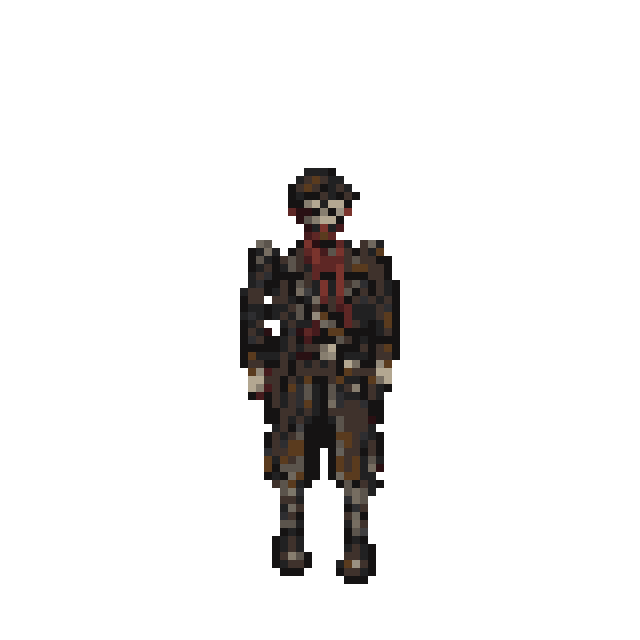
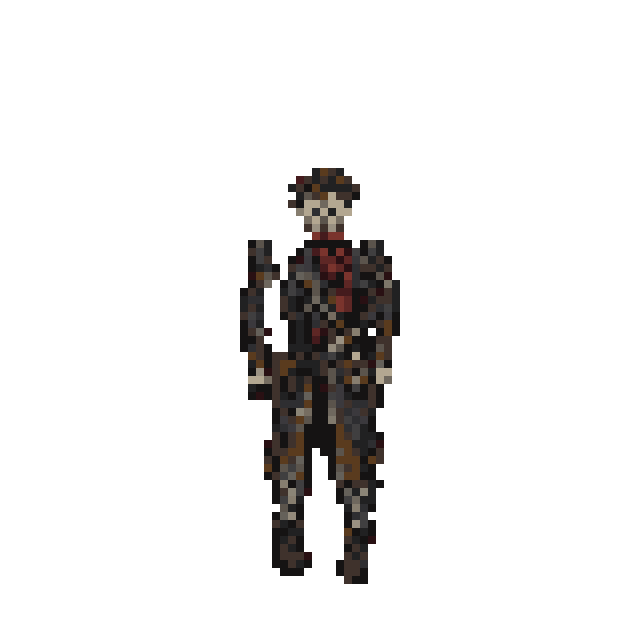
art: improve Thomas south rig readability

Changed region(s): [[0.375, 0.25, 0.625, 0.9062]]

diff --git a/assets/characters/thomas/rig/production/export_parts.py b/assets/characters/thomas/rig/production/export_parts.py
@@ -4,6 +4,8 @@ from PIL import Image
 from collections import deque
 import json,math
 P=Path(__file__).resolve().parent;R=P.parent;ROOT=P.parents[4]
+MASTER=P/'polish-v2/south-parts-master-v2.png'
+NORMAL_MASTER=P/'polish-v2/south-parts-normal-master-v2.png'
 N=Image.Resampling.NEAREST
 NAMES=['head','torso','skirt','upper_arm_l','forearm_l','upper_arm_r','forearm_r','thigh_l','shin_l','thigh_r','shin_r']
 SIZES=[(9,9),(13,18),(15,17),(4,12),(4,12),(4,12),(4,12),(5,14),(5,14),(5,14),(5,14)]
@@ -43,10 +45,15 @@ def extract(im,i,trim_skirt=True):
     return f,box
 
 def export():
-    source=Image.open(P/'south-parts-master.png').convert('RGBA')
+    source=Image.open(MASTER).convert('RGBA')
     sheet=Image.new('RGBA',(264,24));packed=Image.new('RGBA',(96,72));records=[]
     for i,name in enumerate(NAMES):
-        f,box=extract(source,i);f=f.resize(SIZES[i],N)
+        head_path=P/'polish-v2/head-master-v2.png'
+        if i==0 and head_path.exists():
+            head=Image.open(head_path).convert('RGBA');head_pack=Image.new('RGBA',(head.width*4,head.height*3));head_pack.paste(head,(0,0))
+            f,box=extract(head_pack,0,False)
+        else:f,box=extract(source,i,False)
+        f=f.resize(SIZES[i],N)
         pixels=[]
         for r,g,b,a in f.get_flattened_data():
             if not a:pixels.append((0,0,0,0));continue
@@ -55,6 +62,9 @@ def export():
             pixels.append((*c,255))
         f.putdata(pixels)
         x=12-f.width//2;y=23-f.height if i<2 else 0
+        if i<2 and not f.getpixel((12-x,22-y))[3]:
+            occupied=[xx for xx in range(f.width) if f.getpixel((xx,22-y))[3]]
+            x=12-min(occupied,key=lambda xx:abs((x+xx)-12))
         if i>=3:
             # Centre actual material at the joint, not the asymmetric cuff's bounds.
             row=min(range(min(5,f.height)),key=lambda yy:abs(yy-2) if any(f.getpixel((xx,yy))[3] for xx in range(f.width)) else 100)
@@ -67,9 +77,9 @@ def export():
                 yy=y+f.height-1;c=cell.getpixel((xx,yy))
                 if c[3]:cell.putpixel((xx,yy),(*min(PALETTE,key=lambda d:sum((d[k]-max(20,c[k]-10))**2 for k in range(3))),255))
         sheet.paste(cell,(24*i,0));packed.paste(cell,(i%4*24,i//4*24))
-        records.append({'cell':i,'part':name,'pivot':PIVOTS[i],'source_box':box,'painted_size':SIZES[i],'paste':[x,y],'alpha_bounds':cell.getbbox()})
+        records.append({'cell':i,'part':name,'pivot':PIVOTS[i],'source':str(head_path.relative_to(P)) if i==0 else str(MASTER.relative_to(P)),'source_box':box,'painted_size':SIZES[i],'paste':[x,y],'alpha_bounds':cell.getbbox()})
     sheet.save(R/'s.png');packed.resize((1152,864),N).save(P/'south-parts-registered-packed.png')
-    normal_path=P/'south-parts-normal-master.png'
+    normal_path=NORMAL_MASTER
     if normal_path.exists():
         normal_source=Image.open(normal_path).convert('RGBA');normals=Image.new('RGBA',sheet.size)
         for i in range(11):
@@ -87,7 +97,7 @@ def export():
                     pixels.append(tuple(round(127.5*(z/length+1)) for z in v)+(255,))
             cell.putdata(pixels);normals.paste(cell,(i*24,0))
         normals.save(R/'s_n.png')
-    (P/'registration.json').write_text(json.dumps({'source':'south-parts-master.png','sheet_size':[264,24],'cell_size':[24,24],'parts':records},indent=2)+'\n')
+    (P/'registration.json').write_text(json.dumps({'source':str(MASTER.relative_to(P)),'sheet_size':[264,24],'cell_size':[24,24],'parts':records},indent=2)+'\n')
     preview=R/'previews';preview.mkdir(exist_ok=True);(preview/'.gdignore').touch()
     sheet.resize((2112,192),N).save(preview/'south-parts-8x.png')
     print('Exported11 parts at fixed pivots.')

diff --git a/assets/characters/thomas/rig/production/preview_parts.py b/assets/characters/thomas/rig/production/preview_parts.py
@@ -59,5 +59,11 @@ def main():
         bg=Image.new('RGBA',(80,80),(96,97,92,255));bg.alpha_composite(f);loop.append(bg.convert('RGB').resize((320,320),N))
     loop[0].save(pre/'south-walk-parts.gif',save_all=True,append_images=loop[1:],duration=100,loop=0)
     room=Image.open(P.parents[4]/'assets/tiles/sewers/rooms/junction_a/1.png').convert('RGBA');room.alpha_composite(standing,(112,152));room.crop((64,96,256,288)).resize((768,768),N).save(pre/'south-room-4x.png')
+    old_path=P/'polish-v2/before-assembled-s.png'
+    if old_path.exists():
+        old=Image.open(old_path).convert('RGBA');comparison=Image.new('RGBA',(160,80),(85,88,88,255));comparison.alpha_composite(old,(0,0));comparison.alpha_composite(standing,(80,0))
+        comparison.resize((1280,640),N).save(pre/'polish-before-after-8x.png')
+        floor=Image.open(P.parents[4]/'assets/tiles/sewers/rooms/junction_a/1.png').convert('RGBA');old_floor=floor.copy();old_floor.alpha_composite(old,(112,152))
+        both=Image.new('RGBA',(384,192));both.paste(old_floor.crop((64,96,256,288)),(0,0));both.paste(room.crop((64,96,256,288)),(192,0));both.resize((1152,576),N).save(pre/'polish-room-before-after-3x.png')
     print('Mechanical rig preview:',standing.getbbox())
 if __name__=='__main__':main()

diff --git a/assets/characters/thomas/rig/README.md b/assets/characters/thomas/rig/README.md
@@ -23,7 +23,7 @@ Cells left to right, using Thomas's anatomical left/right:
 | 10 | Right thigh | (12,2) |
 | 11 | Right shin/wrap/boot | (12,2) |
 
-Head and torso extend upward from their pivots; limbs and skirt hang straight down. All11 pivots have painted material. Joint coverage is extended to overlap adjacent pieces. The torso owns the belt; the duplicate belt in the generated skirt source is cropped out during export. Each piece is registered once, rather than repositioned separately for each animation frame.
+Head and torso extend upward from their pivots; limbs and skirt hang straight down. All11 pivots have painted material. Joint coverage is extended to overlap adjacent pieces. The torso owns the belt; the current v2 skirt source is already belt-free. Each piece is registered once, rather than repositioned separately for each animation frame.
 
 House-style checks: shared room palette plus Julian's approved four muted reds; coloured material edges; hard binary transparency; worn pixel clusters; lighter face/hands and dark charcoal coat; damp boot contact pixels; neutral diffuse colouring and no added shadow. The head, shoulders and boot tops are drawn for the raised camera. Mechanical standing assembly is52px tall on an80×80 preview with root(40,72).
 
@@ -34,3 +34,9 @@ House-style checks: shared room palette plus Julian's approved four muted reds; 
 The skeleton branch's existing loader reads this folder's `s.png`; attach `s_n.png` through the intended rig lighting support. No code, scenes or existing sprite assets were edited. This sheet depends on the skeleton implementation and revised job15-0 brief, which were read from branch`skeleton` rather than the older main-branch job description.
 
 The previews mechanically reproduce that pinned rig's placements and camera; they are not screenshots of the running game. Check rotations for exposed seams, near/far limb ordering, camera fit, moving foot contact and normal orientation under actual lights. Julian's in-game approval is pending; other directions have not been started. Keep job15-0 unchecked until that review is complete.
+
+## Readability revision v2
+
+The runtime sheets now use polish-v2 sources: clearer pale facial features and hands, charcoal coat/lapels, distinct brown leather and trousers, and cleaner scarf/wrap clusters. The head was repainted separately for its 9×9 native artwork. Cell sizes, part order, rig pivots and assembled 52px height remain the same. The normal map was regenerated. The torso painting was registered one pixel sideways to cover the unchanged waist pivot.
+
+Before-and-after images are in previews/polish-before-after-8x.png and previews/polish-room-before-after-3x.png (before left, revision right). Actual game lighting and camera approval remain pending.

diff --git a/assets/characters/thomas/rig/production/polish-v2/README.md b/assets/characters/thomas/rig/production/polish-v2/README.md
@@ -1,0 +1,15 @@
+# South rig readability revision v2
+
+Built-in image generation revised the existing eleven-part south sheet while preserving the supplied rig contract. Runtime exports remain `../../s.png` and `../../s_n.png`: eleven24×24 cells in one row,264×24 total. Head/torso pivots(12,22), all other pivots(12,2). No skeleton motion or renderer code was edited.
+
+- `south-parts-master-v2.png`, `parts-prompt-v2.txt`: revised isolated parts source and full prompt; four-column/three-row working layout, last cell empty. Inputs were the registered v1 parts and approved steady portrait for identity.
+- `head-cell-target.png`: enlarged24×24 intermediate head cell supplied to the focused head edit.
+- `head-master-v2.png`, `head-prompt-v2.txt`: separate head repaint and full prompt, made for clear facial features within9×9 native pixels. This source overrides cell1 of the full parts master.
+- `south-parts-normal-master-v2.png`, `normal-prompt-v2.txt`: regenerated normal-colour source and full prompt. Export normalizes vectors and applies exact diffuse alpha.
+- `before-s.png`, `before-s_n.png`: exact runtime sheets from main before this revision,264×24, archived for comparison.
+- `before-assembled-s.png`: previous80×80 mechanical standing preview.
+- `validation.json`: checked layout, pivots, palette, transparency, source revision, checksums and pending in-game approval status.
+
+Run `../export_parts.py` followed by `../preview_parts.py` using Pillow to reproduce the mechanical palette/registration/assembly work. They do not paint new anatomy or generate different appearances for animation frames. Native part sizes remain those of v1. The body is still viewed from the raised room camera and the mechanical standing assembly remains52px tall.
+
+The current source skirt is belt-free, so export no longer trims a duplicated belt from it. Previous masters remain unchanged in the parent production folder. Preview comparison images show before on the left and v2 on the right. Actual game lighting and moving joint contact still need review.

diff --git a/assets/characters/thomas/rig/previews/README.md b/assets/characters/thomas/rig/previews/README.md
@@ -9,3 +9,6 @@
 - `.gdignore`: excludes review media from runtime imports.
 
 Mechanical placement previews only. Actual Godot rendering, joint seams during continuous rotation, moving foot contact and lighting still require in-game review.
+
+- polish-before-after-8x.png: before left, current revision right; identical 80×80 registration enlarged8×.
+- polish-room-before-after-3x.png: both versions on the same native-density room crop, before left/current right, enlarged3×.

diff --git a/assets/characters/thomas/rig/production/README.md b/assets/characters/thomas/rig/production/README.md
@@ -13,3 +13,5 @@
 - `.gdignore`: excludes production sources from runtime imports.
 
 Runtime outputs: `../s.png` and `../s_n.png`, one row of11 cells,24×24 each. See the parent README for cell order and pivots.
+
+Current runtime exports use the versioned polish-v2 sources, including a separate head repaint and regenerated normal source. Original masters remain as revision1 history. See polish-v2/README.md for the new inputs and archived before images.
